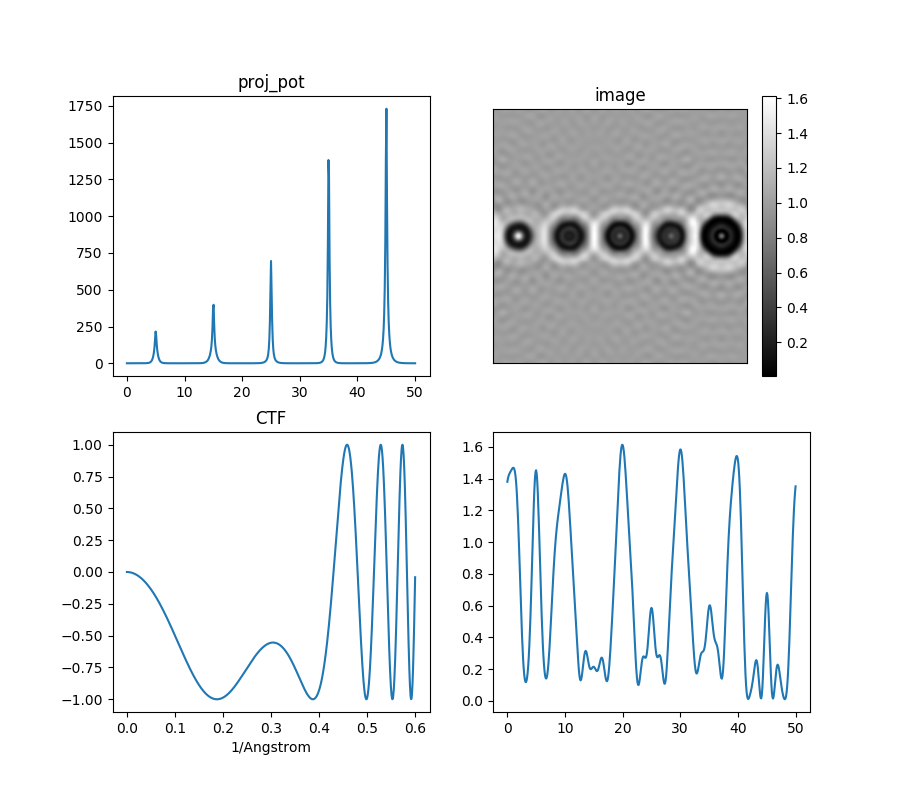
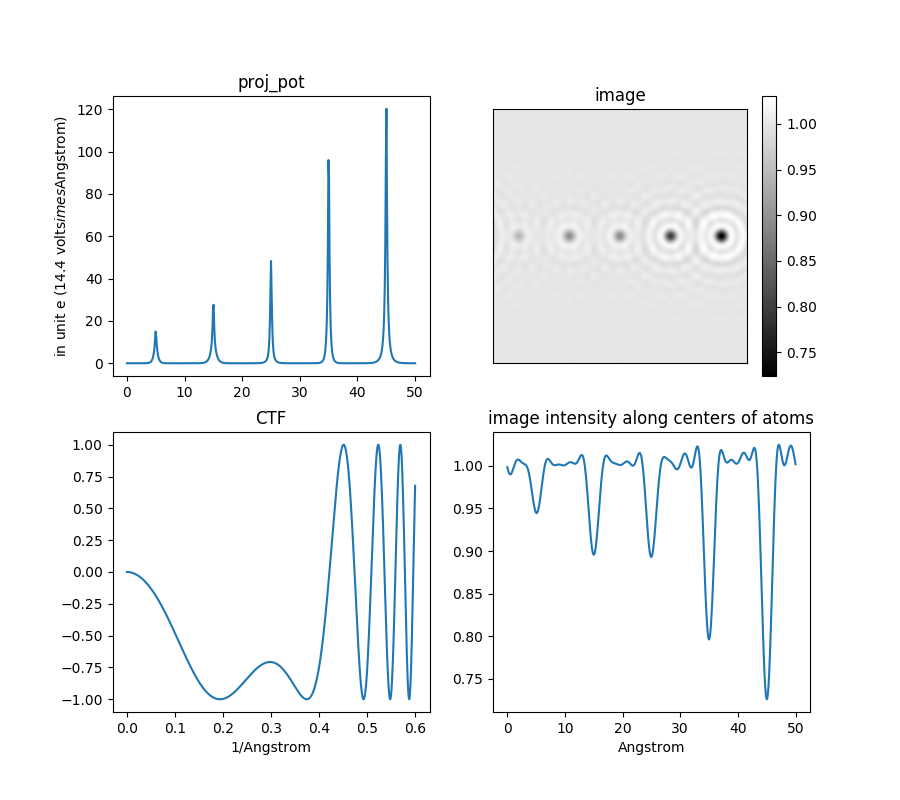
fatal bug fixed: interact pm forgotten

diff --git a/Specimen.py b/Specimen.py
@@ -3,6 +3,8 @@ Dimenssions convention
 Length: Angstrom
 Potential: volts
 Projected Potential: in e = 14.4 volts \times Angstrom
+hc = 12.415 keV Angstrom
+hbarc = 1.9759 keV Angstrom
 '''
 
 import numpy as np
@@ -12,7 +14,7 @@ import matplotlib.pyplot as plt
 a0 = 0.529177 #Angstrom
 e = 14.39964 #volts Angstrom
 atom_pot_pms = np.loadtxt("atom_pot_pm.csv", delimiter=",")
-r_min = 1e-3
+r_min = 1e-10
 
 
 class Atom:
@@ -35,13 +37,13 @@ class Atom:
 
         sum1 = sum([self.a[i]*kn(0, 2*np.pi*r_min*np.sqrt(self.b[i])) for i in range(3)])
         sum2 = sum([self.c[i]*np.exp(-np.pi*np.pi*r_min*r_min/self.d[i])/self.d[i] for i in range(3)])
-        v_max = 2*np.pi*np.pi*a0*(2*sum1 + sum2)*e
+        v_max = 2*np.pi*np.pi*a0*(2*sum1 + sum2)
         xx = x - self.proj_pos[0]
         yy = y - self.proj_pos[1]
         r = np.sqrt(xx*xx + yy*yy)
         sum1 = sum([self.a[i]*kn(0,2*np.pi*r*np.sqrt(self.b[i])) for i in range(3)])
         sum2 = sum([self.c[i]*np.exp(-np.pi*np.pi*r*r/self.d[i])/self.d[i] for i in range(3)])
-        return np.where(r>r_min, 2*np.pi*np.pi*a0*(2*sum1 + sum2)*e, -r*r+v_max+r_min*r_min)
+        return np.where(r>r_min, 2*np.pi*np.pi*a0*(2*sum1 + sum2), -r*r+v_max+r_min*r_min)
 
     def plot_potential(self, ax):
         x,y = np.mgrid[-2:2:512j, -2:2:512j]
@@ -50,6 +52,7 @@ class Atom:
 
 
 class SingleLayerAtoms:
+
     def __init__(self, dimension = 50, pix_number = 512):
         '''
         dimension: side length of the specimen in unit Angstrom
@@ -68,17 +71,18 @@ class SingleLayerAtoms:
         for atom in atoms_list:
             self.proj_pot += Atom(atom[0], pos = atom[1:]).projected_potential(self.x, self.y).real
 
-    def trans_func(self):
-        return np.exp(1j*self.proj_pot)
 
     def show(self, ax):
         ax.imshow(self.proj_pot, cmap="gray_r")
         ax.set_title("proj_pot")
         ax.xaxis.set_visible(False)
         ax.yaxis.set_visible(False)
+
     def plot_proj_pot(self, ax, along):
         ax.plot(np.linspace(0, self.dimension, self.pix_number), self.proj_pot[along])
         ax.set_title("proj_pot")
+        ax.set_ylabel("Angstrom")
+        ax.set_ylabel("in unit e (14.4 volts$\times$Angstrom)")
 
 
 

diff --git a/EM.py b/EM.py
@@ -10,6 +10,7 @@ from numpy.fft import *
 import matplotlib.pyplot as plt
 import Specimen
 
+m0cq = 510.9989461 #keV
 
 class EleMSCP:
     def __init__(self, Cs, df = 0, beam_energy = 200, aperture = np.pi/2):
@@ -47,6 +48,12 @@ class EleMSCP:
         specimen: an instance of class Specimen
         '''
         self.specimen = specimen
+
+    def trans_func(self):
+        interact_pm = (14.39964/1975.9)*(m0cq + \
+            self.beam_energy)/np.sqrt(self.beam_energy*(2*m0cq + self.beam_energy)) # 1/e
+        return np.exp(1j*interact_pm*self.specimen.proj_pot)
+
     def plot_CTF(self, ax):
         kk = np.linspace(0, 0.6, 1000)
         CTF = np.sin(self.aberration(kk))
@@ -65,7 +72,7 @@ class EleMSCP:
         k = np.sqrt(kx*kx + ky*ky)
 
         # Fourier transforms the transmission function
-        t = self.specimen.trans_func() # origin at center
+        t = self.trans_func() # origin at center
         T = fftshift(fft2(t)) # origin at center
         # Contrast transfer function
         H = self.__MTF(k) # origin at center

diff --git a/simulations.py b/simulations.py
@@ -11,8 +11,8 @@ beam_energy = 200
 Cs = 1.2 # mm
 em = EM.EleMSCP(Cs = Cs, beam_energy=200.)
 # Scherzer condition
-df = 700 #np.sqrt(1.5*em.Cs*1e7*em.wave_len)
-a = 0.01037 #pow(6*em.wave_len/(em.Cs*1e7),0.25)
+df = np.sqrt(1.5*em.Cs*1e7*em.wave_len)
+a = pow(6*em.wave_len/(em.Cs*1e7),0.25)
 print("Cs = ", Cs, "mm")
 print("aperture = ", a*1000, "mrad")
 print("defocus = ", df, "Angstrom")
@@ -33,8 +33,9 @@ em.plot_CTF(ax3)
 
 img_intensity = img[257]
 xxx = np.linspace(0, 50, 513)
-print(img_intensity.shape)
 ax4.plot(xxx, img_intensity)
+ax4.set_title("image intensity along centers of atoms")
+ax4.set_xlabel("Angstrom")
 
-plt.savefig("simulated_imgs/test.png")
+plt.savefig("simulated_imgs/5atoms.png")
 plt.show()
